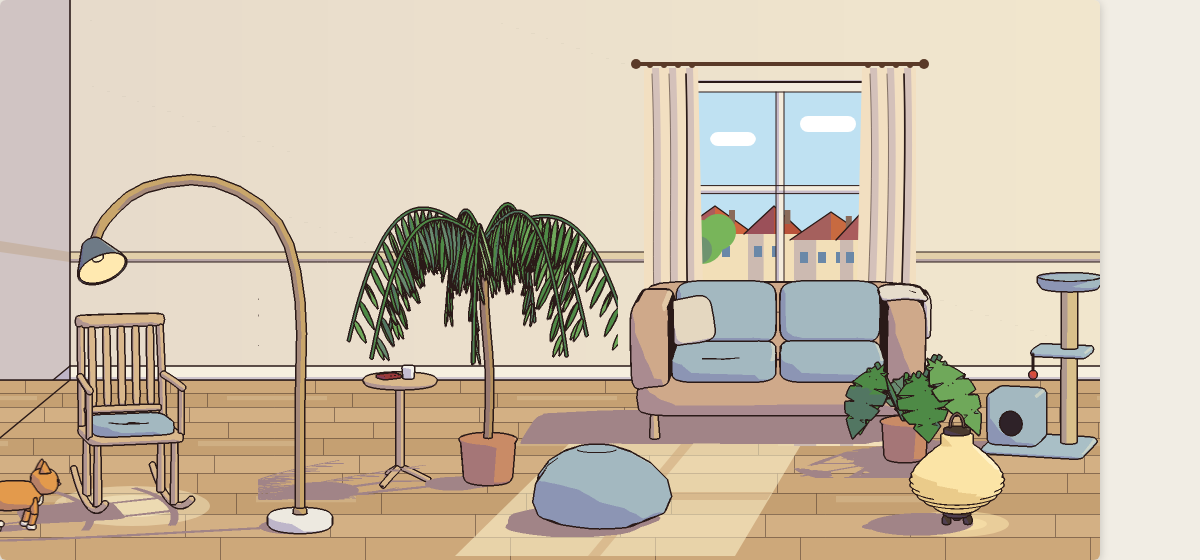
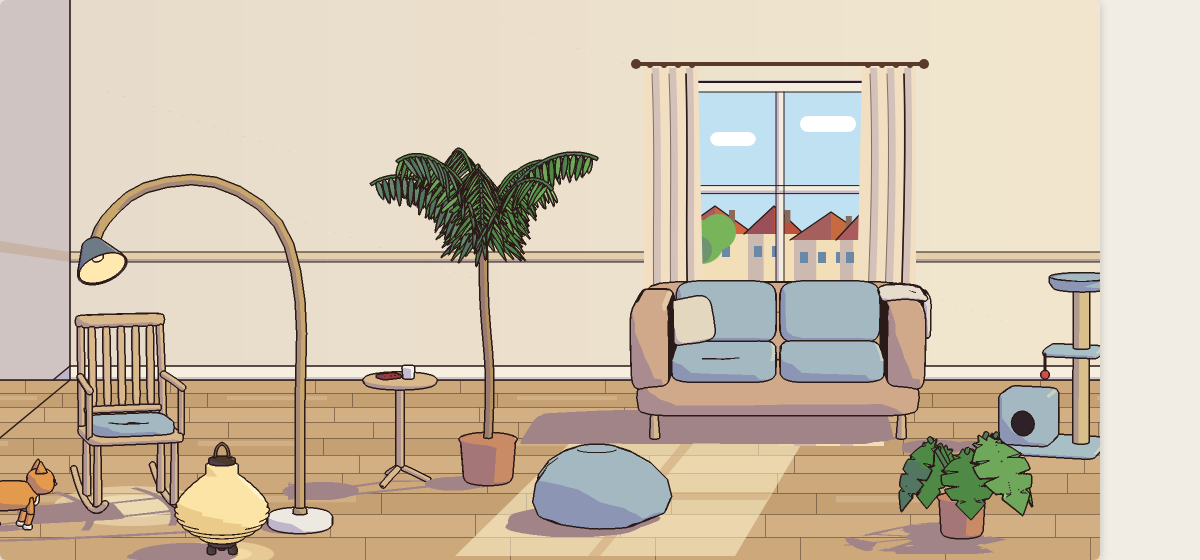
docs(g6): maquette v3 (palmier kentia, bond du chat, monstera déplacé)

diff --git a/docs/superpowers/maquettes/g6-piece/piece-ghibli.html b/docs/superpowers/maquettes/g6-piece/piece-ghibli.html
@@ -201,19 +201,25 @@ function cat(o={}){ // pose 'walk' (phase) | 'leap' (u 0→1, incl) | 'rest' (u 
    push(place(lathe([[1.3,-6.5],[1.5,0]],8),{rz:a2,t:knee}),GINGER);
    const paw=[knee[0]+Math.sin(a2)*6.5,knee[1]-Math.cos(a2)*6.5,knee[2]];push(place(superEll(2,1.1,1.6,.6,.6,6,8),{t:[paw[0]+.5,Math.max(0,paw[1])+.6,paw[2]]}),CREAM)});
   const w=Math.sin(ph*.5);tailTube([[-12,15+bob,0],[-18,19+bob,w*1.5],[-21,25+bob,w*3],[-19,30+bob,w*4],[-15,32+bob,w*4.5]]);
- }else if(o.pose==='leap'){const u=o.u||0,incl=o.incl||0; // élan : corps étiré, pattes avant tendues, arrière en extension
+ }else if(o.pose==='crouch'){const c=o.c==null?1:o.c; // appel : corps ramassé au sol, pattes pliées, tête basse prête à bondir
+  push(place(superEll(13,5-1.2*c,6.5,.8,.85,12,20),{rz:.12*c,t:[0,8.5-1.5*c,0]}),GINGER);
+  push(place(superEll(5.4,5,5.4,.75,.75,12,16),{t:[12,13-1.5*c,0]}),GINGER);ears(12,13-1.5*c,0,[1,0],-.2*c);face(12,13-1.5*c,0,[1,0]);
+  [[1],[-1]].forEach(([s])=>{push(place(lathe([[1.5,-6],[1.8,0]],8),{rz:-.9*c,t:[8,8-1.2*c,s*3.2]}),GINGER);push(place(lathe([[1.3,-5.5],[1.5,0]],8),{rz:.9*c,t:[8+Math.sin(.9*c)*6,8-1.2*c-Math.cos(.9*c)*6,s*3.2]}),GINGER)});
+  [[1],[-1]].forEach(([s])=>push(place(superEll(5.5,5.5,4.5,.7,.7,10,14),{t:[-8,7,s*3.5]}),GINGER));
+  tailTube([[-12,8,0],[-19,6,2],[-25,4,4],[-28,3,7]]);
+ }else if(o.pose==='leap'){const u=o.u||0,incl=o.incl||0; // bond : corps étiré sur la tangente, antérieurs vers l'assise à l'arrivée
   const B=p=>rotZ(p,incl);const put=(m,c,pos,x)=>push(place(m,{rz:incl,t:add(B(pos),[0,0,0])}),c,x);
   put(superEll(16,5.6,5.6,.8,.85,12,20),GINGER,[0,16,0]);
   put(superEll(5.4,5,5.4,.75,.75,12,16),GINGER,[16,20,0]);
   const hp=B([16,20,0]);ears(hp[0],hp[1],hp[2],[Math.cos(incl),0],incl*.5);face(hp[0],hp[1],hp[2],[Math.cos(incl),0]);
-  [[1],[-1]].forEach(([s])=>{const sh=B([13,13,s*3]);push(place(lathe([[1.4,-12],[1.7,0]],8),{rz:incl-1.15,t:sh}),GINGER)});
-  [[1],[-1]].forEach(([s])=>{const hp2=B([-12,14,s*3.2]);push(place(lathe([[1.5,-12.5],[1.9,0]],8),{rz:incl+1.05+.3*u,t:hp2}),GINGER)});
+  [[1],[-1]].forEach(([s])=>{const sh=B([13,13,s*3]);push(place(lathe([[1.4,-12],[1.7,0]],8),{rz:incl-.9+.55*u,t:sh}),GINGER)});
+  [[1],[-1]].forEach(([s])=>{const hp2=B([-12,14,s*3.2]);push(place(lathe([[1.5,-12.5],[1.9,0]],8),{rz:incl+1.15-1.1*u,t:hp2}),GINGER)});
   tailTube([B([-15,16,0]),B([-23,17,1]),B([-30,16,2]),B([-35,13,2])]);
  }else{ // rest : u=0 assis, u=1 enroulé
-  const u=o.u||0,L=(a,b)=>a+(b-a)*u;
-  push(place(superEll(L(8,12.5),L(10.5,5.8),L(9,10.5),.7,.7,14,22),{rx:L(-.25,0),t:[0,L(10.5,5.8),L(-2,0)]}),GINGER);
+  const u=o.u||0,L=(a,b)=>a+(b-a)*u,sq=o.squash||0;
+  push(place(superEll(L(8,12.5)*(1+.3*sq),L(10.5,5.8)*(1-.3*sq),L(9,10.5),.7,.7,14,22),{rx:L(-.25,0)-.2*sq,t:[0,L(10.5,5.8)*(1-.3*sq),L(-2,0)]}),GINGER);
   push(place(superEll(L(6,4),L(6.5,3.5),L(5.5,4),.75,.75,12,16),{t:[L(0,-6),L(13,5),L(4.5,7)]}),CREAM);
-  const hp=[L(0,-6),L(22.5,9.5),L(4.5,8)];push(place(superEll(6.3,5.8,6.3,.75,.75,12,18),{t:hp}),GINGER);
+  const hp=[L(0,-6),L(22.5,9.5)-6*sq,L(4.5,8)+2*sq];push(place(superEll(6.3,5.8,6.3,.75,.75,12,18),{t:hp}),GINGER);
   const fwd=[Math.sin(L(0,-.9)),Math.cos(L(0,-.9))];ears(hp[0],hp[1],hp[2],fwd);face(hp[0],hp[1],hp[2],fwd);
   if(u<.98){[[-1],[1]].forEach(([s])=>{push(place(lathe([[1.6,0],[1.5,L(11,3)]],8),{t:[s*3.4,0,L(7.5,6)]}),GINGER);push(place(superEll(2,1.2,2.6,.6,.6,6,10),{t:[s*3.4,1,L(8.5,7)]}),CREAM)})}
   const tailS=[[6,2,-7],[13,1.8,-3],[15,2,4],[12,2.4,9]],tailC=[[10,2,-6],[14,2,2],[10,2.2,9],[2,2.4,11],[-4,2.6,10]];
@@ -234,7 +240,7 @@ function chair(st=STYLES.scandinave,o={}){
  P.push(part(place(superEll(24,1.7,1.5,.3,.3,6,16),{t:[0,53,-19.6]}),W,{crease:false}));
  for(let i=-2;i<=2;i++)P.push(part(place(superEll(2,23,.9,.3,.3,10,10),{rx:-.075,t:[i*8.5,77.5,-22.4]}),W,{crease:false}));
  for(const sx of[-1,1]){P.push(part(tube([[sx*24.2,72,-21.5],[sx*25.6,71,0],[sx*26.2,70,16]],1.9,10),W,{crease:false}));P.push(part(place(lathe([[1.6,0],[1.6,27]],10),{t:[sx*26.2,43,14]}),W,{crease:false}))}
- if(o.cat!=null&&o.cat!==false)P.push(...cat({pose:'rest',u:o.cat===true?0:o.cat,ry:.25,t:[0,49.5,3]}));
+ if(o.cat!=null&&o.cat!==false)P.push(...cat({pose:'rest',u:o.cat===true?0:Math.max(0,o.cat),squash:o.cat<0?-o.cat:0,ry:.25,t:[0,49.5,3]}));
  return P;
 }
 
@@ -300,16 +306,16 @@ function palm(){const P=[];
  P.push(part(lathe([[0,24],[13.8,24]],24),SOIL,{flat:true,noshadow:true}));
  P.push(part(tube([[0,24,0],[1,60,0],[-2,100,0],[-3,136,1]],2.3,8),tone('#B5915E'),{crease:false}));
  const top=[-3,136,1];
- for(let k=0;k<9;k++){const a=k*2*Math.PI/9+.25,rise=.55+.3*((k*5)%3)/2,len=78+10*((k*7)%3);
+ for(let k=0;k<9;k++){const a=k*2*Math.PI/9+.25,th0=.3+.3*((k*5)%3)/2,len=66+10*((k*7)%3);
   // rachis : monte, s'arque puis retombe (dans le plan local x-y, puis tourné de a)
-  const N=20;const loc=[];for(let i=0;i<=N;i++){const s=i/N;loc.push([len*s*(1-.15*s),28*Math.sin(Math.PI*s*.9)*rise-62*s*s*s,0])}
+  const N=20;const loc=[[0,0,0]];for(let i=1;i<=N;i++){const s=(i-.5)/N;const th=th0+1.55*s*s;const q=loc[i-1];loc.push([q[0]+Math.sin(th)*len/N,q[1]+Math.cos(th)*len/N,0])}
   const world=loc.map(p=>add(rotY(p,a),top));P.push(part(tube(world,.75,6),GREEN2,{crease:false}));
   // folioles fines et souples des deux côtés, de plus en plus courtes vers la pointe
   for(let i=3;i<loc.length;i++){for(let f=0;f<1;f++){const s=i/N;const p0=loc[i-1],p1=loc[i];const pm=[p0[0]+(p1[0]-p0[0])*f*.5,p0[1]+(p1[1]-p0[1])*f*.5,0];
-   const tilt=Math.atan2(p1[1]-p0[1],p1[0]-p0[0]);const Lf=(34-18*s)*(.92+.16*((i*3)%2));
-   for(const sd of[-1,1]){const droop=.95+.3*(((i*7+(sd>0?1:0))%4)/3)+.3*s;
+   const tilt=Math.atan2(p1[1]-p0[1],p1[0]-p0[0]);const Lf=(26-12*s)*(.92+.16*((i*3)%2));
+   for(const sd of[-1,1]){const droop=.5+.25*(((i*7+(sd>0?1:0))%4)/3)+.25*s;
     const out=[[0,0],[1.1,Lf*.2],[1.35,Lf*.45],[1,Lf*.75],[0,Lf],[-1,Lf*.75],[-1.35,Lf*.45],[-1.1,Lf*.2]];
-    let m=leaf(out,.35,(x,y,z)=>[x,y-.009*z*z,z]);m=place(m,{s:[1,1,sd],rx:sd*droop});m=place(m,{rz:tilt*.35,ry:a,t:add(rotY(pm,a),top)});
+    let m=leaf(out,.35,(x,y,z)=>[x,y-.009*z*z,z]);m=place(m,{s:[1,1,sd],rx:sd*droop});m=place(m,{rz:tilt*.6,ry:a,t:add(rotY(pm,a),top)});
     P.push(part(m,(i+sd)%2?GREEN:GREEN2,{crease:false}))}}}}
  return P}
 function beanbag(){ // sac de billes affaissé : base large, plis verticaux, creux au sommet, légère bascule
@@ -386,7 +392,7 @@ function drawBackground(ctx,t){
  ctx.beginPath();ctx.moveTo(543,FL+112);ctx.lineTo(772,FL+112);ctx.lineTo(767,FL+120);ctx.lineTo(538,FL+120);ctx.closePath();ctx.fill();
  // flaque du lampadaire (deux tons nets, pas de flou)
  ctx.fillStyle='rgba(255,246,208,.42)';ctx.beginPath();ctx.ellipse(132,506,78,20,0,0,7);ctx.fill();ctx.fillStyle='rgba(255,246,208,.45)';ctx.beginPath();ctx.ellipse(132,506,46,11,0,0,7);ctx.fill();
- ctx.fillStyle='rgba(255,233,176,.5)';ctx.beginPath();ctx.ellipse(957,524,52,13,0,0,7);ctx.fill();ctx.fillStyle='rgba(255,233,176,.5)';ctx.beginPath();ctx.ellipse(957,524,30,7,0,0,7);ctx.fill();
+ ctx.fillStyle='rgba(255,233,176,.5)';ctx.beginPath();ctx.ellipse(222,554,52,13,0,0,7);ctx.fill();ctx.fillStyle='rgba(255,233,176,.5)';ctx.beginPath();ctx.ellipse(222,554,30,7,0,0,7);ctx.fill();
  // fenêtre
  const wx=690,wy=92,ww=180,wh=208;
  ctx.fillStyle=sh(WALL,.25);ctx.fillRect(wx-12,wy-12,ww+24,wh+24); // embrasure
@@ -438,12 +444,12 @@ function buildRoom(){
  FURN.length=0;
  FURN.push(sprite(arcLamp(),300,526,{w:420,h:420,ox:300,oy:400,yaw:0}));
  FURN.push(sprite(gueridon(),400,480,{w:200,h:160,ox:120,oy:140,yaw:.3}));
- FURN.push(sprite(palm(),488,480,{w:360,h:330,ox:230,oy:310,yaw:.2}));
+ FURN.push(sprite(palm(),488,480,{w:360,h:400,ox:200,oy:380,yaw:.2}));
  FURN.push(sprite(beanbag(),600,517,{w:220,h:140,ox:140,oy:120,yaw:.35}));
  FURN.push(sprite(sofa(STYLES.scandinave),778,424,{w:520,h:260,ox:330,oy:240,yaw:0}));
- FURN.push(sprite(monstera(),905,458,{w:240,h:220,ox:150,oy:200,yaw:.4}));
- FURN.push(sprite(lantern(),957,522,{w:170,h:140,ox:100,oy:120,yaw:0}));
- FURN.push(sprite(catTree(),1040,448,{w:260,h:260,ox:150,oy:240,yaw:-.25}));
+ FURN.push(sprite(monstera(),962,534,{w:260,h:220,ox:150,oy:200,yaw:.15}));
+ FURN.push(sprite(lantern(),222,552,{w:170,h:140,ox:100,oy:120,yaw:0}));
+ FURN.push(sprite(catTree(),1052,448,{w:260,h:260,ox:150,oy:240,yaw:-.25}));
 }
 const CHAIR_X=130,CHAIR_Y=506,CHAIR_YAW=.22;
 function chairSprite(angle,catU){
@@ -454,18 +460,22 @@ let catSitSprite=null;const catWalkSprites={};
 function catWalk(ph,dir){const k=Math.round(ph*6)/6+'|'+dir;if(!catWalkSprites[k])catWalkSprites[k]=render(cat({pose:'walk',phase:ph,ry:dir>0?deg(12):deg(192)}),{...ROOM,w:160,h:110,ox:80,oy:95});return catWalkSprites[k]}
 
 /* ---------- chronologie (13 s) ---------- */
-const T=14.5;
-function timeline(t){ // renvoie l'état : chairAngle, cat {mode,x,y,ph,dir,u,incl}
+const T=15;
+// bond en cloche : y(u)=y0+(y1-y0)u-h*sin(pi u) ; inclinaison = tangente (ecran : y vers le bas)
+function arc(x0,x1,y0,y1,h,u){const x=x0+(x1-x0)*u,y=y0+(y1-y0)*u-h*Math.sin(Math.PI*u);const dy=(y1-y0)-h*Math.PI*Math.cos(Math.PI*u),dx=(x1-x0);return{x,y,incl:Math.atan2(-dy,Math.abs(dx))*.7}}
+function timeline(t){ // renvoie l'etat : chairAngle, cat {mode,x,y,ph,dir,u,incl,c}
  let ang=0,c=null;const ease=u=>u*u*(3-2*u);
  const rock=(t0,A)=>{const u=t-t0;return u>0?deg(A)*Math.exp(-.55*u)*Math.sin(2*Math.PI*u/1.75):0};
- if(t<2.1){const u=t/2.1;c={mode:'walk',x:-80+(52+80)*u,y:518,ph:u*15,dir:1}}
- else if(t<2.7){const u=(t-2.1)/.6;c={mode:'leap',x:52+(130-52)*ease(u),y:518+(418-518)*u-62*Math.sin(Math.PI*u),dir:1,u,incl:(.6-1.3*u)}}
- else if(t<5.6){c={mode:'rest',u:0};ang=rock(2.65,6.5)}
- else if(t<6.6){c={mode:'rest',u:ease((t-5.6)/1)};ang=rock(2.65,6.5)}
- else if(t<9.9){c={mode:'rest',u:1};ang=rock(2.65,6.5)}
- else if(t<10.5){c={mode:'rest',u:1-ease((t-9.9)/.6)}}
- else if(t<11.05){const u=(t-10.5)/.55;c={mode:'leap',x:130+(34-130)*u,y:418+(518-418)*u*u-30*Math.sin(Math.PI*u),dir:-1,u,incl:(-.3-.9*u)};ang=rock(10.5,2.4)}
- else if(t<13.4){const u=(t-11.05)/2.35;c={mode:'walk',x:34-(34+90)*u,y:518,ph:u*17,dir:-1};ang=rock(10.5,2.4)}
+ if(t<2.1){const u=t/2.1;c={mode:'walk',x:-80+(46+80)*u,y:518,ph:u*15,dir:1}}
+ else if(t<2.5){const u=(t-2.1)/.4;c={mode:'crouch',x:46,y:518,c:ease(Math.min(1,u*1.3)),dir:1}}
+ else if(t<3.1){const u=(t-2.5)/.6;const a=arc(46,130,518,418,78,u);c={mode:'leap',...a,dir:1,u}}
+ else if(t<3.4){const u=(t-3.1)/.3;c={mode:'rest',u:-.8*Math.sin(Math.PI*u)-.001};ang=rock(3.1,6.5)}
+ else if(t<6.1){c={mode:'rest',u:0};ang=rock(3.1,6.5)}
+ else if(t<7.1){c={mode:'rest',u:ease((t-6.1)/1)};ang=rock(3.1,6.5)}
+ else if(t<10.4){c={mode:'rest',u:1};ang=rock(3.1,6.5)}
+ else if(t<11){c={mode:'rest',u:1-ease((t-10.4)/.6)}}
+ else if(t<11.55){const u=(t-11)/.55;const a=arc(130,34,418,518,26,u);c={mode:'leap',...a,dir:-1,u};ang=rock(11,2.4)}
+ else if(t<13.9){const u=(t-11.55)/2.35;c={mode:'walk',x:34-(34+90)*u,y:518,ph:u*17,dir:-1};ang=rock(11,2.4)}
  return{ang,cat:c};
 }
 let chairCache={key:null,sp:null};
@@ -477,10 +487,11 @@ function drawScene(ctx,t){
  if(chairCache.key!==key){chairCache={key,sp:chairSprite(st.ang,catU)}}
  const all=[...FURN,chairCache.sp].sort((a,b)=>(a.y+a.c.height)-(b.y+b.c.height)); // le plus bas devant
  // ordre réel : par ligne de sol
- const order=[{s:chairCache.sp,g:CHAIR_Y},{s:FURN[0],g:526},{s:FURN[1],g:480},{s:FURN[2],g:480},{s:FURN[3],g:517},{s:FURN[4],g:424},{s:FURN[5],g:458},{s:FURN[6],g:522},{s:FURN[7],g:448}].sort((a,b)=>a.g-b.g);
+ const order=[{s:chairCache.sp,g:CHAIR_Y},{s:FURN[0],g:526},{s:FURN[1],g:480},{s:FURN[2],g:480},{s:FURN[3],g:517},{s:FURN[4],g:424},{s:FURN[5],g:534},{s:FURN[6],g:548},{s:FURN[7],g:448}].sort((a,b)=>a.g-b.g);
  order.forEach(({s})=>ctx.drawImage(s.c,s.x,s.y));
  if(st.cat&&st.cat.mode==='walk'){const c=catWalk(st.cat.ph,st.cat.dir);ctx.drawImage(c,st.cat.x-70,st.cat.y-85)}
- if(st.cat&&st.cat.mode==='leap'){const c=render(cat({pose:'leap',u:st.cat.u,incl:st.cat.incl*st.cat.dir,ry:st.cat.dir>0?deg(12):deg(192)}),{...ROOM,w:180,h:130,ox:90,oy:100,shadow:false});ctx.drawImage(c,st.cat.x-90,st.cat.y-100)}
+ if(st.cat&&st.cat.mode==='leap'){const c=render(cat({pose:'leap',u:st.cat.u,incl:st.cat.incl,ry:st.cat.dir>0?deg(12):deg(192)}),{...ROOM,w:200,h:160,ox:100,oy:120,shadow:false});ctx.drawImage(c,st.cat.x-100,st.cat.y-120)}
+ if(st.cat&&st.cat.mode==='crouch'){const c=render(cat({pose:'crouch',c:st.cat.c,ry:deg(12)}),{...ROOM,w:160,h:110,ox:80,oy:95});ctx.drawImage(c,st.cat.x-80,st.cat.y-95)}
 }
 
 /* ---------- tour du meuble / plateau / styles ---------- */
